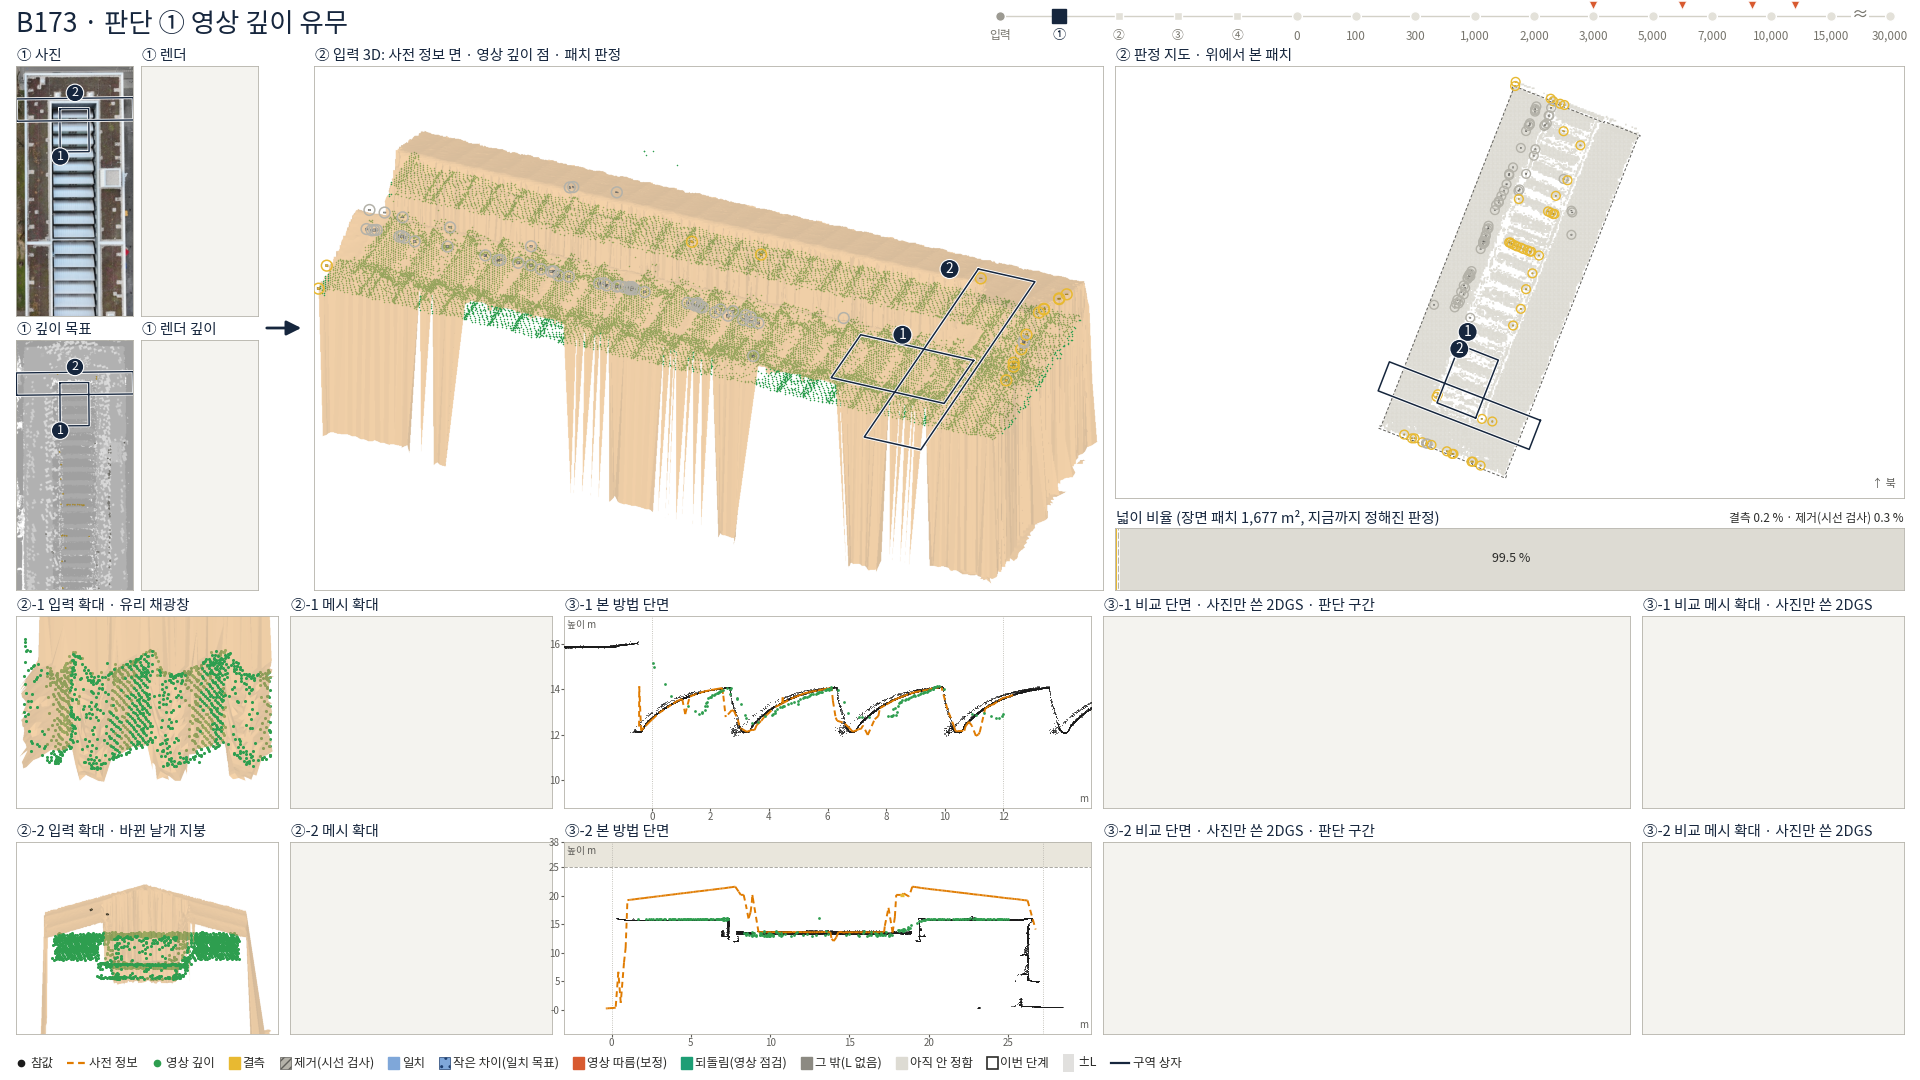
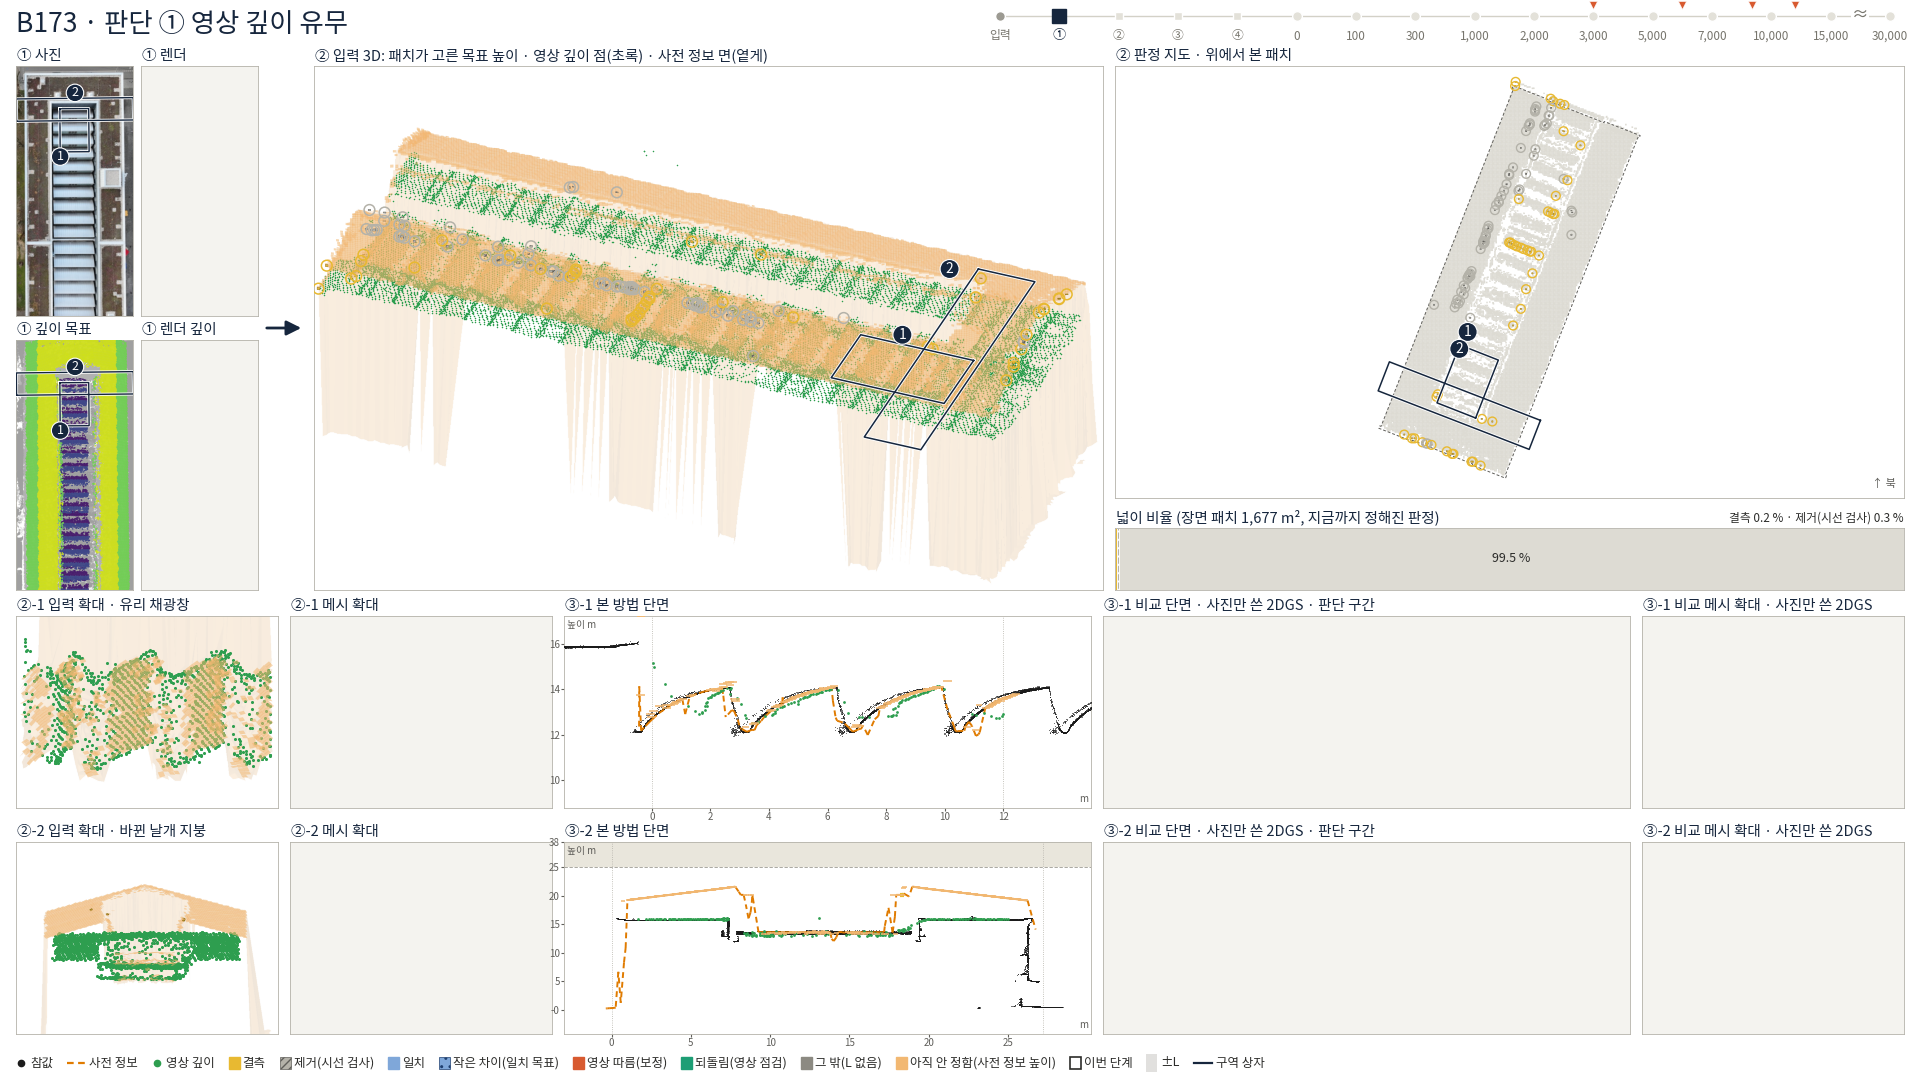
PHD-MAIN-JUDGEVIDEO-v1 v2: 패치가 단계마다 고른 목표 높이로 움직임(박공→평지붕, 되돌림은 다시 위로), ① 깊이 목표 = 목표 높이 색

diff --git a/scripts/phd/main_judgevideo_v1/jv_frames.py b/scripts/phd/main_judgevideo_v1/jv_frames.py
@@ -44,6 +44,35 @@ def quads(p):
     n = p['normal']; t1 = p['tangent1']; t2 = np.cross(n, t1); h = np.sqrt(p['area'])[:, None]/2; c = p['centre']+n*p['prior_h'][:, None]
     return np.stack([c-h*t1-h*t2, c+h*t1-h*t2, c+h*t1+h*t2, c-h*t1+h*t2], 1)
 
+def quads_h(p, h):
+    n = p['normal']; t1 = p['tangent1']; t2 = np.cross(n, t1); w = np.sqrt(p['area'])[:, None]/2; c = p['centre']+n*h[:, None]
+    return np.stack([c-w*t1-w*t2, c+w*t1-w*t2, c+w*t1+w*t2, c-w*t1+w*t2], 1)
+
+def shown_h(p, stage):
+    """v2 (user 11-25: 'which target each step selects must show, e.g. the gable disappears and the flat roof is chosen'): the height each patch stands at
+    after this stage. Not decided yet = prior height (so the first picture is the old prior roof). Decided = the target of its stored judgment
+    (jv_prep target_h: agree / small difference = precision-weighted mean, image depth = mvs mean, prior = prior); at j3 the patches returned at j4 stand
+    at the image depth, at j4 they go back to the prior height."""
+    hP = p['prior_h']; hM = np.where(np.isfinite(p['mvs_h']), p['mvs_h'], hP); tg = np.where(np.isfinite(p['target_h']), p['target_h'], hP); step = p['step']
+    k = -1 if stage == 'start' else STAGES.index(stage); h = hP.copy()
+    if k >= 1: h[step == 2] = tg[step == 2]
+    if k >= 2: m = step == 3; h[m] = tg[m]; m = np.isin(step, [31, 4]); h[m] = hM[m]
+    if k >= 3: h[step == 4] = tg[step == 4]
+    if k >= 4: h[step == 0] = tg[step == 0]
+    return h
+
+UNDEC_3D = '#F2B872'
+def paint(ax, Q2, d, cat, new, alpha, lw_new=.35, zorder=9):
+    """One painter-sorted collection (far first): not decided = prior colour at alpha .55, decided = its judgment colour, new = fading in with a darker edge;
+    hatched categories get a hatch overlay."""
+    o = np.argsort(-d); Q2, cat, new = Q2[o], cat[o], new[o]; ok = np.isfinite(Q2).all((1, 2)); Q2, cat, new = Q2[ok], cat[ok], new[ok]
+    fc = np.array([to_rgb(UNDEC_3D) if c == 0 else to_rgb(SC[c]) for c in cat]); al = np.where(cat == 0, .55, np.where(new, .35+.65*alpha, 1.))
+    ec = np.where(new[:, None], .62*fc, fc); lw = np.where(new, lw_new, .1)
+    ax.add_collection(PolyCollection(Q2, facecolors=np.c_[fc, al], edgecolors=np.c_[ec, np.maximum(al, .5)], linewidths=lw, zorder=zorder))
+    for k, hp in HATCH.items():
+        m = cat == k
+        if m.any(): ax.add_collection(PolyCollection(Q2[m], facecolors='none', edgecolors='#5F5E5A' if k == 11 else '#1F3F6F', linewidths=0, hatch=hp, zorder=zorder+.1))
+
 def put(ax, Q2, cat, new, alpha, vis=None, lw_new=.5, dark=False):
     """Q2: (N, 4, 2) screen quads; draw each category, new ones with alpha and a dark edge."""
     for k in BAR_ORDER[:-1]:
@@ -64,7 +93,8 @@ def visible(F, P, dep, ext, view=None):
 
 def draw(F, stage, alpha, png, cache, p):
     S = F.S; st = F.st; t0 = time.monotonic(); fig = F.fig = plt.figure(figsize=(W_/100, H_/100), dpi=100, facecolor='white')
-    cat = stage_colours(p['step'], stage); new = np.isin(cat, NEW[stage]); Q = cache['Q']
+    cat = stage_colours(p['step'], stage); new = np.isin(cat, NEW[stage])
+    prev = 'start' if stage == 'j1' else STAGES[STAGES.index(stage)-1]; h0, h1 = shown_h(p, prev), shown_h(p, stage); hh = h0+alpha*(h1-h0); Q = quads_h(p, hh)
     fig.text(16/W_, 1-24/H_, f'{BNAME} · {STITLE[stage]}', fontsize=19, color=NAVY, va='center', fontweight='bold')
     # progress row: 입력, ①-④, 0 ... 30,000 (the r6 row with four dots inserted)
     labs = ['input', 'j1', 'j2', 'j3', 'j4']+cf.STATES; xs = np.linspace(1000, 1890, len(labs)); cur = labs.index('j4' if stage == 'res' else stage)
@@ -81,8 +111,9 @@ def draw(F, stage, alpha, png, cache, p):
     u0, v0, u1, v1 = st['crop']; ph = 250; pw = int(round(ph*(u1-u0)/(v1-v0))); X0, Y0 = 16, 66; gap = 8
     a = F.axes(X0, Y0, pw, ph, '① 사진'); F.cam(a, cache['photo'])
     a = F.axes(X0, Y0+ph+24, pw, ph, '① 깊이 목표'); F.cam(a, cache['grey'], zones=False)
-    u, v, zc = S.pix(Q.reshape(-1, 3)); Qc = np.stack([u, v], 1).reshape(-1, 4, 2); okc = (zc.reshape(-1, 4) > 0).all(1)
-    put(a, Qc, np.where(okc, cat, 0), new, alpha, lw_new=.3)
+    u, v, zc = S.pix(Q.reshape(-1, 3)); Qc = np.stack([u, v], 1).reshape(-1, 4, 2); zc = zc.reshape(-1, 4).mean(1); hz = Q.mean(1)[:, 2]-S.ground
+    bi = np.clip(np.searchsorted(F.bins, hz, side='right')-1, 0, cf.NBIN-1); o = np.argsort(-zc); ok = np.isfinite(Qc).all((1, 2))[o]
+    a.add_collection(PolyCollection(Qc[o][ok], facecolors=F.hcol[bi[o][ok]], edgecolors=F.hcol[bi[o][ok]], linewidths=.2, zorder=8))
     for k_, z in S.zones.items():
         ring = np.asarray(F.sj['zones'][str(k_)]['box_polygon_xy']); P_ = np.c_[ring, np.full(len(ring), F.sj['zones'][str(k_)]['outline_z'])]; uu, vv, _ = S.pix(P_)
         a.plot(np.r_[uu, uu[:1]], np.r_[vv, vv[:1]], color='white', lw=2.2, zorder=15); a.plot(np.r_[uu, uu[:1]], np.r_[vv, vv[:1]], color=NAVY, lw=1.0, zorder=16)
@@ -92,12 +123,13 @@ def draw(F, stage, alpha, png, cache, p):
     ar = FancyArrowPatch(((X0+2*pw+gap+6)/W_, 1-(Y0+ph+12)/H_), ((X0+2*pw+gap+46)/W_, 1-(Y0+ph+12)/H_), transform=fig.transFigure, arrowstyle='-|>', mutation_scale=22, color=NAVY, lw=2); fig.patches.append(ar)
     # ② input 3D
     X2 = X0+2*pw+gap+56; w2 = (W_-16-X2-12)//2; h2 = 2*ph+24; ext = cache['ext']
-    ag = F.axes(X2, Y0, w2, h2, '② 입력 3D: 사전 정보 면 · 영상 깊이 점 · 패치 판정')
-    img, dep = cache['prior_overview']; F.show_prior(ag, img, dep, ext); F.mvs_points(ag, dep, ext, w2, h2, 2, 1.2)
-    x, y, d = S.proj(Q.reshape(-1, 3)); Q2 = np.stack([x, y], 1).reshape(-1, 4, 2); dd = d.reshape(-1, 4).mean(1); o = np.argsort(-dd)
-    put(ag, Q2[o], cat[o], new[o], alpha, vis=cache['vis_ov'][o], lw_new=.35); F.zone_outline(ag, 1); F.zone_outline(ag, 2)
+    ag = F.axes(X2, Y0, w2, h2, '② 입력 3D: 패치가 고른 목표 높이 · 영상 깊이 점(초록) · 사전 정보 면(옅게)')
+    img, dep = cache['prior_overview']; ag.imshow(np.dstack([img, np.where(np.isfinite(dep), .22, 0.)]), extent=ext, zorder=1); ag.set_xlim(ext[0], ext[1]); ag.set_ylim(ext[2], ext[3]); ag.set_aspect('equal')
+    F.mvs_points(ag, np.full_like(dep, np.inf), ext, w2, h2, 2, 1.2)
+    x, y, d = S.proj(Q.reshape(-1, 3)); Q2 = np.stack([x, y], 1).reshape(-1, 4, 2); dd = d.reshape(-1, 4).mean(1)
+    paint(ag, Q2, dd, cat, new, alpha); F.zone_outline(ag, 1); F.zone_outline(ag, 2)
     if stage == 'j1':
-        m = new & cache['vis_ov']; ag.scatter(Q2[m].mean(1)[:, 0], Q2[m].mean(1)[:, 1], s=60, facecolors='none', edgecolors=[SC[c_] for c_ in cat[m]], linewidths=1.1, alpha=alpha, zorder=12)
+        m = new.copy(); ag.scatter(Q2[m].mean(1)[:, 0], Q2[m].mean(1)[:, 1], s=60, facecolors='none', edgecolors=[SC[c_] for c_ in cat[m]], linewidths=1.1, alpha=alpha, zorder=12)
     # ② map (top view) + bar
     hm = h2-92; am = F.axes(X2+w2+12, Y0, w2, hm, '② 판정 지도 · 위에서 본 패치')
     M2 = Q[:, :, :2]; am.add_collection(PolyCollection(M2[cat == 0], facecolors=UNDEC, edgecolors=UNDEC, linewidths=.1, zorder=2))
@@ -129,24 +161,22 @@ def draw(F, stage, alpha, png, cache, p):
         xg = 16; xm = xg+wz+gz; xs1 = xm+wz+gz; xs2 = xs1+ws+gz; xc = xs2+ws+gz
         a_g = F.axes(xg, Y, wz, hz, f'②-{k} 입력 확대 · {cf.ZNAME[k]}'); F.blank(F.axes(xm, Y, wz, hz, f'②-{k} 메시 확대'))
         a_s = F.axes(xs1, Y, ws, hz, f'③-{k} 본 방법 단면'); a_c = F.axes(xs2, Y, ws, hz, f'③-{k} 비교 단면 · {cn} · 판단 구간'); F.blank(a_c); F.blank(F.axes(xc, Y, wz, hz, f'③-{k} 비교 메시 확대 · {cn}'))
-        zimg, zdep = cache[f'prior_zoom{k}']; F.show_prior(a_g, zimg, zdep, zext); F.mvs_points(a_g, zdep, zext, wz, hz, 3, 5, zone=k, view=zv)
-        zsel = cache[f'zsel{k}']; x, y, d = S.proj(Q[zsel].reshape(-1, 3), *zv); Qz = np.stack([x, y], 1).reshape(-1, 4, 2); dz = d.reshape(-1, 4).mean(1); o = np.argsort(-dz)
-        put(a_g, Qz[o], cat[zsel][o], new[zsel][o], alpha, vis=cache[f'vis_z{k}'][o], lw_new=.6, dark=True)
+        zimg, zdep = cache[f'prior_zoom{k}']; a_g.imshow(np.dstack([zimg, np.where(np.isfinite(zdep), .22, 0.)]), extent=zext, zorder=1); F.mvs_points(a_g, np.full_like(zdep, np.inf), zext, wz, hz, 3, 5, zone=k, view=zv)
+        zsel = cache[f'zsel{k}']; x, y, d = S.proj(Q[zsel].reshape(-1, 3), *zv); Qz = np.stack([x, y], 1).reshape(-1, 4, 2); dz = d.reshape(-1, 4).mean(1)
+        paint(a_g, Qz, dz, cat[zsel], new[zsel], alpha, lw_new=.6); a_g.set_xlim(zext[0], zext[1]); a_g.set_ylim(zext[2], zext[3]); a_g.set_aspect('equal')
         F.section(a_s, k, layers=('gt', 'prior', 'mvs'))
         b = cache[f'band{k}']; Yf = lambda h: F.ymap(k, h); cb = cat[b['i']]
         if STAGES.index(stage) >= 1:   # +-L band of every patch in the band (grey)
             ok = np.isfinite(b['L']); a_s.add_collection(PolyCollection([[(s0-b['w'][j], Yf(h-l)), (s0+b['w'][j], Yf(h-l)), (s0+b['w'][j], Yf(h+l)), (s0-b['w'][j], Yf(h+l))]
                                                                          for j, (s0, h, l) in enumerate(zip(b['s'], b['hp'], b['L']*b['nz'])) if ok[j]], facecolors='#9C9A92', edgecolors='none', alpha=.18, zorder=3.5))
-        segs, cols, lws = [], [], []
-        for j in np.flatnonzero(cb > 0):
-            segs.append([(b['s'][j]-b['w'][j], Yf(b['ht'][j])), (b['s'][j]+b['w'][j], Yf(b['ht'][j]))]); cols.append(SC[cb[j]] + ('' if not new[b['i'][j]] else '')); lws.append(2.4 if new[b['i'][j]] else 1.6)
-        if segs:
-            al = np.where(new[b['i']][cb > 0], alpha, 1.); rgba = [(*to_rgb(c_), a_) for c_, a_ in zip(cols, al)]
-            a_s.add_collection(LineCollection(segs, colors=rgba, linewidths=lws, zorder=6, capstyle='butt'))
+        hb = Q[b['i']].mean(1)[:, 2]-S.ground; ok = np.isfinite(hb)
+        segs = [[(b['s'][j]-b['w'][j], Yf(hb[j])), (b['s'][j]+b['w'][j], Yf(hb[j]))] for j in np.flatnonzero(ok)]
+        rgba = [(*to_rgb(UNDEC_3D if cb[j] == 0 else SC[cb[j]]), .8 if cb[j] == 0 else 1.) for j in np.flatnonzero(ok)]; lws = [1.4 if cb[j] == 0 else (3. if new[b['i'][j]] else 2.2) for j in np.flatnonzero(ok)]
+        if segs: a_s.add_collection(LineCollection(segs, colors=rgba, linewidths=lws, zorder=6, capstyle='butt'))
     # legend
     lax = fig.add_axes([0, 0, 1, 34/H_]); lax.axis('off'); lax.set_xlim(0, W_); lax.set_ylim(0, 34); x = 16
     items = [('pt', GTC, '참값'), ('dash', PRC, '사전 정보'), ('pt', MVC, '영상 깊이'), ('box', SC[1], '결측'), ('hbox', 11, '제거(시선 검사)'), ('box', SC[2], '일치'), ('hbox', 3, '작은 차이(일치 목표)'),
-             ('box', SC[31], '영상 따름(보정)'), ('box', SC[4], '되돌림(영상 점검)'), ('box', SC[5], '그 밖(L 없음)'), ('box', UNDEC, '아직 안 정함'), ('edge', '#2C2C2A', '이번 단계'), ('lband', '#9C9A92', '±L'), ('line', NAVY, '구역 상자')]
+             ('box', SC[31], '영상 따름(보정)'), ('box', SC[4], '되돌림(영상 점검)'), ('box', SC[5], '그 밖(L 없음)'), ('box', UNDEC_3D, '아직 안 정함(사전 정보 높이)'), ('edge', '#2C2C2A', '이번 단계'), ('lband', '#9C9A92', '±L'), ('line', NAVY, '구역 상자')]
     for kind, col, txt in items:
         if kind == 'pt': lax.plot(x+5, 17, 'o', ms=4.5, color=col)
         elif kind == 'box': lax.add_patch(plt.Rectangle((x, 11), 11, 12, color=col))
@@ -178,7 +208,7 @@ def prepare(F):
         cache[f'band{k}'] = dict(i=bi, s=s[bi], hp=hp, ht=ht, L=p['L'][bi], nz=np.abs(n[:, 2]), w=np.sqrt(p['area'][bi])/2)
     return cache
 
-FADE = [.2, .4, .6, .8]; FADE_FRAMES = 12; HOLD_FRAMES = 38; RES_FRAMES = 50
+FADE = [i/8 for i in range(1, 8)]; FADE_FRAMES = 21; HOLD_FRAMES = 38; RES_FRAMES = 50   # v2: 0.84 s movement (7 x 3 frames) + 1.52 s hold
 def main(mode):
     F = Frame(); t0 = time.monotonic(); cache = prepare(F); p = cache['p']; rec = dict(at=now(), rule=__doc__, frames=[], scientific_verdict=None)
     print('PREP', round(time.monotonic()-t0, 1), flush=True)

diff --git a/scripts/phd/main_judgevideo_v1/jv_video.py b/scripts/phd/main_judgevideo_v1/jv_video.py
@@ -1,5 +1,5 @@
 """PHD-MAIN-JUDGEVIDEO-v1 encode (video image: imageio_ffmpeg's ffmpeg). No new drawing.
-  1 B173_판단과정_v1.mp4      the judgment frames (jv_frames.py, frames_all.json order and repeats) at 25 fps: per step 4 fade frames x 3 + hold 38 = 2.0 s, result 2.0 s
+  1 B173_판단과정_v1.mp4      the judgment frames (jv_frames.py, frames_all.json order and repeats) at 25 fps: v1: per step 4 fade x 3 + hold 38 = 2.0 s; v2: patches move to their target height in 7 x 3 frames + hold 38 = 2.36 s; result 2.0 s
   2 B173_판단학습과정_v1.mp4  the r6 'input' frame (1.2 s, as in the r6 video) -> the judgment section -> the r6 frames 0 ... 30,000 (1.2 s each, the last 3.0 s)
   both H.264 libx264 -preset veryfast, yuv420p, crf 18, 25 fps constant (the r6 encode rule), via the ffmpeg concat demuxer (durations).
   stills: the last (alpha 1) frame of each step -> stills/B173_판단_<n>_<step>.png (5). scientific_verdict: null"""
